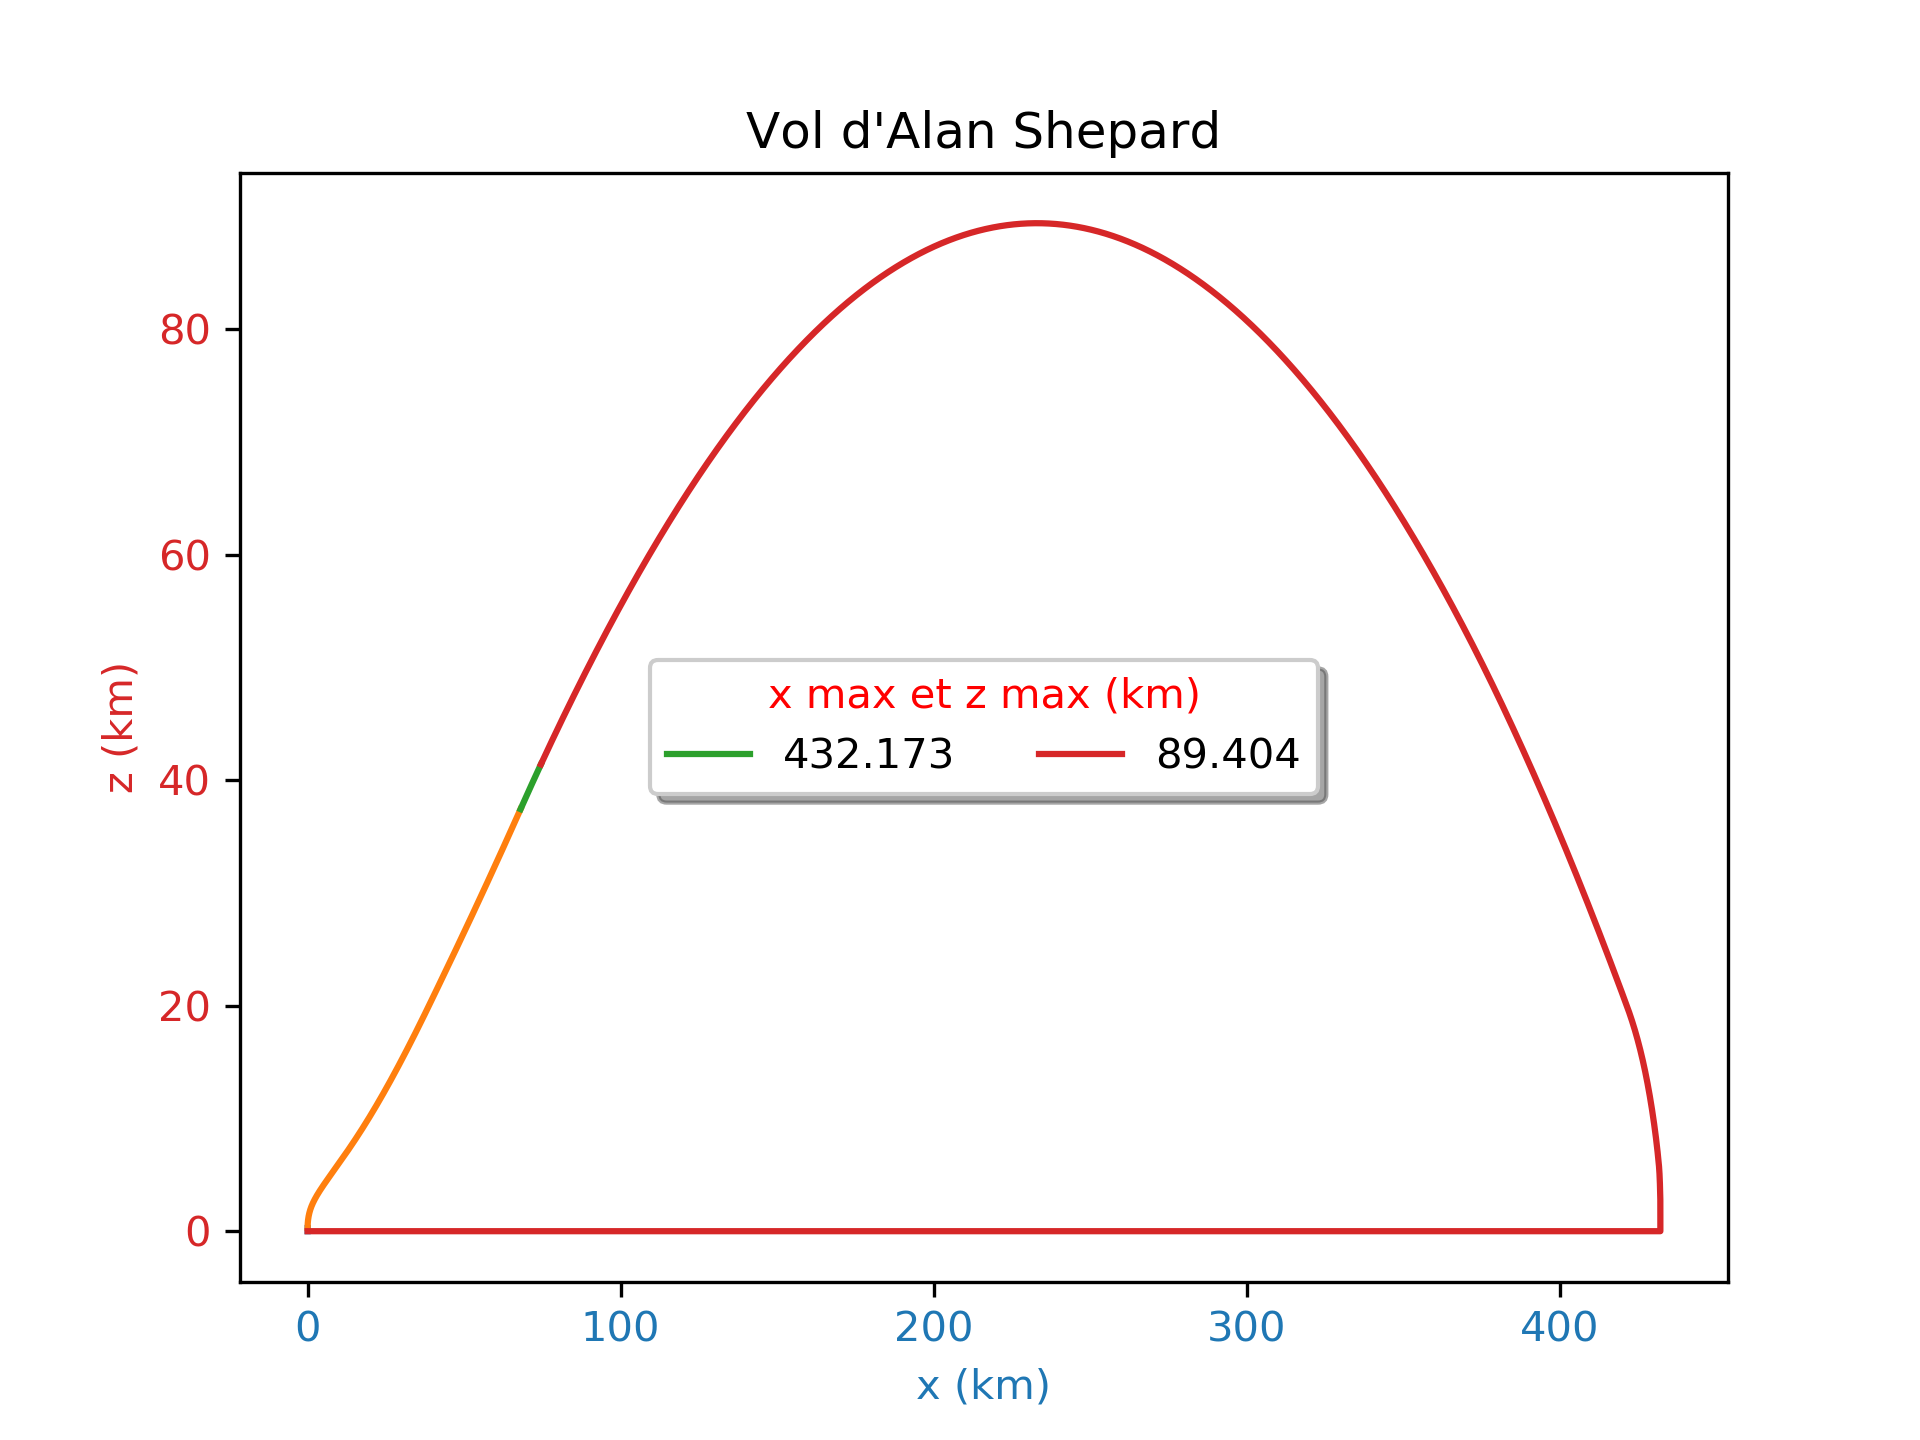
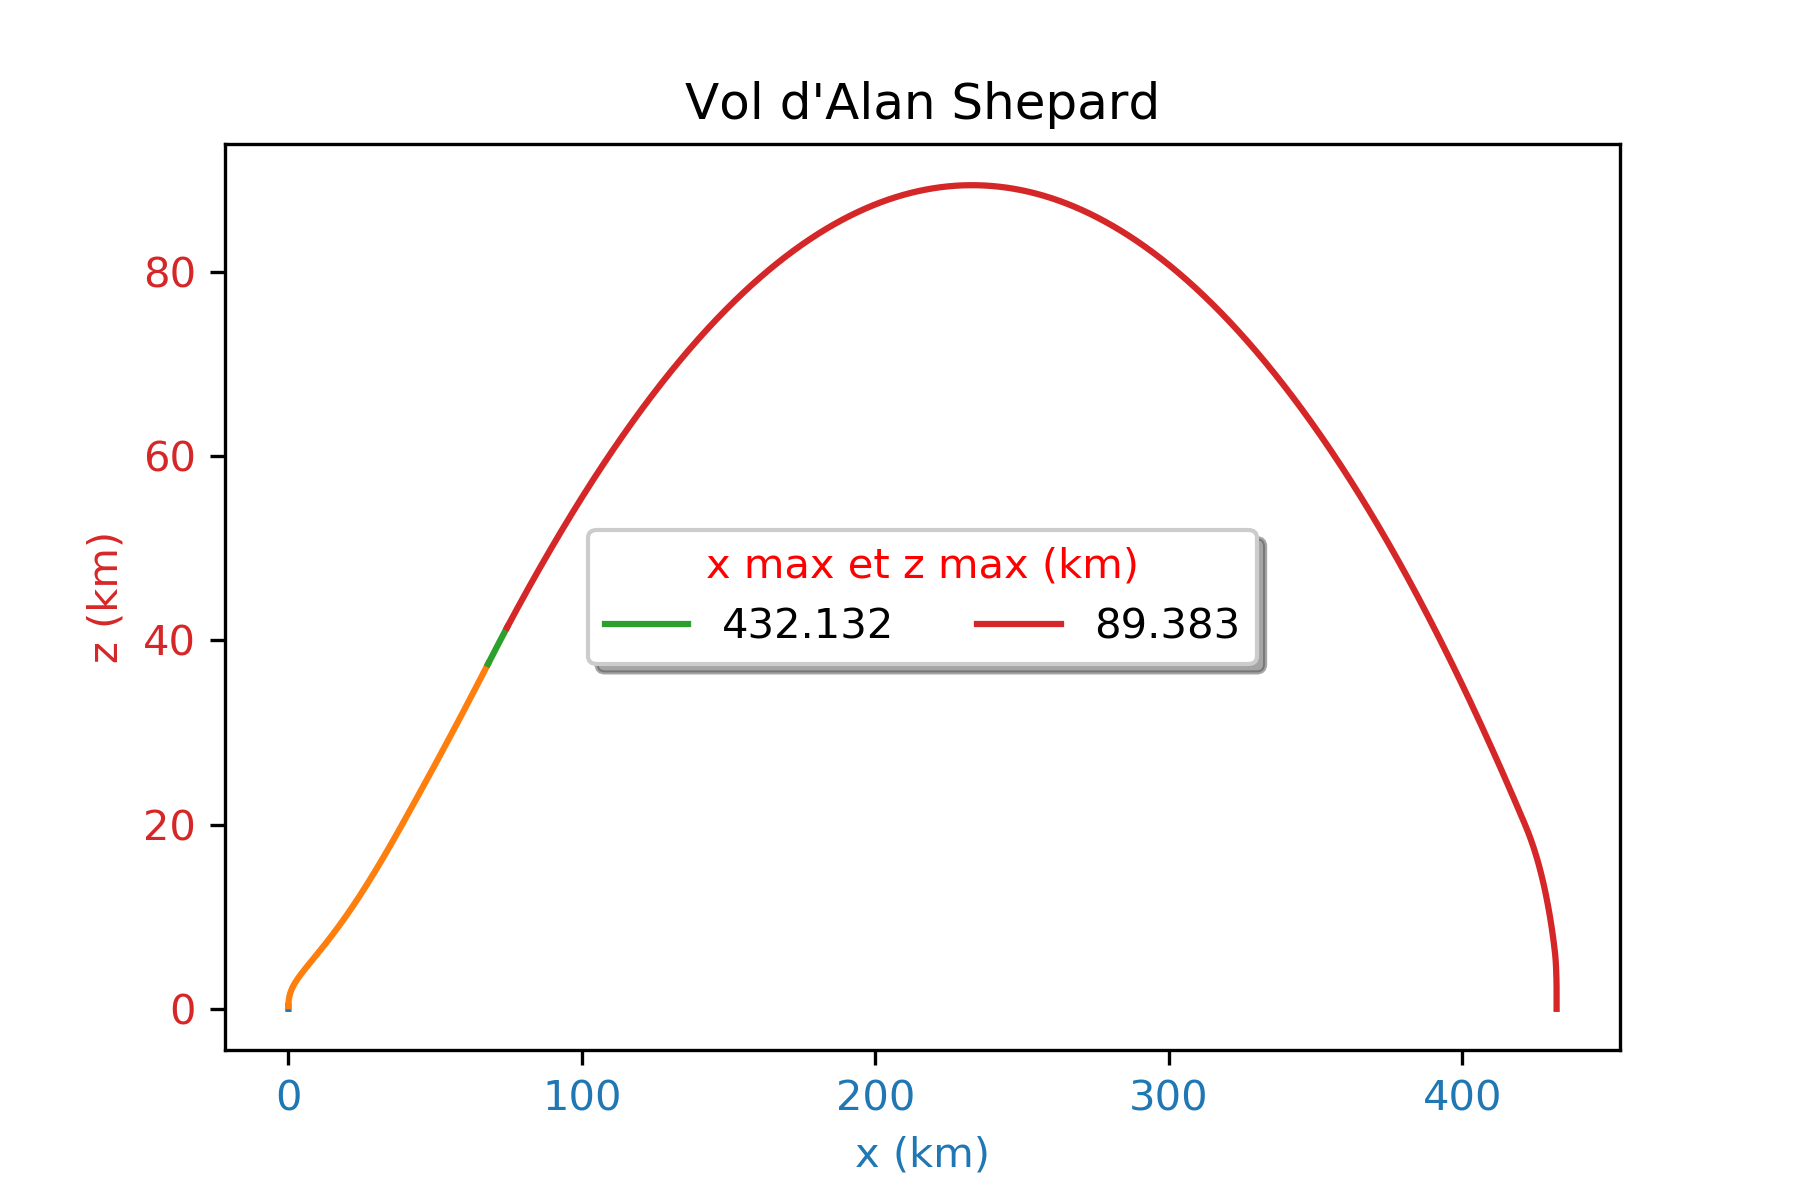
les vecteurs sont calcé sur le temps et non plus N, toujours pas reglé le problème d'altitude.

diff --git a/vol.py b/vol.py
@@ -4,27 +4,29 @@ import matplotlib.pyplot as plt
 
 ################ Définition des fonctions
 
-def vol(theta,tsim,m=30e3,g=9.81,x0=0,z0=0,vx0=0,vz0=0,ax0=0,az0=0,Cx=0.5,S=np.pi*(0.8)**2,q=166,ve=2.11e3,mcap=1400,poussee=0,thetaF=0):
+def vol(N,theta,tsim,m=30e3,g=9.81,x0=0,z0=0,vx0=0,vz0=0,ax0=0,az0=0,Cx=0.5,S=np.pi*(0.8)**2,q=166,ve=2.11e3,mcap=1400,poussee=0,thetaF=0):
     ##Initialisation de tous les vecteurs.
-    x, z = np.zeros(N),np.zeros(N)
+    t = int(tsim*N)
+    x, z = np.zeros(t),np.zeros(t)
     x[0], z[0] = x0, z0
-    vx,vz = np.zeros(N),np.zeros(N)
+    vx,vz = np.zeros(t),np.zeros(t)
     vx[0],vz[0] = vx0, vz0
-    dt = tsim/N
-    ax,az = np.zeros(N),np.zeros(N)
+    dt = tsim/t
+    ax,az = np.zeros(t),np.zeros(t)
     ax[0],az[0] = ax0,az0
-    Ttab,rhotab = np.zeros(N),np.zeros(N)
+    Ttab,rhotab = np.zeros(t),np.zeros(t)
     Ttab[0],rhotab[0] = atmosphere(z0)
     thetaI=theta
     Cpara,Spara = 1.75,0    ##Coefficient de frottement et surface des parachutes, nulle au départ car pas déployé.
     prop = q*ve*poussee              ##Force de poussée de la fusée
-
-    for i in range(N-1):
+    
+    for i in range(t-1):
         T, rho = atmosphere(z[i])  ##Calcul de la densité de l'air et de la température en fontion de l'altitude.
         if vz[i] < 0:
             Cx = coeff(vz[i],T)    ##Calcul du coeff Cx lors de la redescente
             Spara = para(z[i])             ##et de Spara à partir d'une certaine altitude.
         if z[i] < 0:
+            x,z,m,vx,vz,ax,az,Ttab,rhotab = x[:i],z[:i],m,vx[:i],vz[:i],ax[:i],az[:i],Ttab[:i],rhotab[:i]
             break
         Ttab[i+1] = T
         rhotab[i+1] = rho
@@ -108,14 +110,14 @@ theta2 = np.pi/4
 tsim1 = 16
 tsim2 = 127.5
 tsim3 = 700
-N = 10000
+N = 100
 
 ############## Calcul des trajectoires
 
-x1,z1,m1,vx1,vz1,ax1,az1,Ttab1,rhotab1 = vol(theta1,tsim1,poussee=1) ##La fusée décolle verticalement
-x2,z2,m2,vx2,vz2,ax2,az2,Ttab2,rhotab2 = vol(theta1,tsim2,x0=x1[-1],z0=z1[-1],m=m1,poussee=1,vx0=vx1[-1],vz0=vz1[-1],ax0=ax1[-1],az0=az1[-1],thetaF=theta2)   ##Puis prend progressivement un angle de 45 ◦ par rapport à l’horizontale ≈ 16 s après le lancement.
-x3,z3,m3,vx3,vz3,ax3,az3,Ttab3,rhotab3 = vol(0,4,x0=x2[-1],z0=z2[-1],m=m2-580,vx0=vx2[-1],vz0=vz2[-1],ax0=ax2[-1],az0=az2[-1])    ##Largage de la tour d’éjection d’urgence à la fin de la poussée de la fusée
-x4,z4,m4,vx4,vz4,az4,az4,Ttab4,rhotab4 = vol(0,tsim3,x0=x3[-1],z0=z3[-1],m=1400,vx0=vx3[-1],vz0=vz3[-1],ax0=ax3[-1],az0=az3[-1])    ##Séparation de la capsule Mercury 4 secondes après la fin de la poussée
+x1,z1,m1,vx1,vz1,ax1,az1,Ttab1,rhotab1 = vol(N,theta1,tsim1,poussee=1) ##La fusée décolle verticalement
+x2,z2,m2,vx2,vz2,ax2,az2,Ttab2,rhotab2 = vol(N,theta1,tsim2,x0=x1[-1],z0=z1[-1],m=m1,poussee=1,vx0=vx1[-1],vz0=vz1[-1],ax0=ax1[-1],az0=az1[-1],thetaF=theta2)   ##Puis prend progressivement un angle de 45 ◦ par rapport à l’horizontale ≈ 16 s après le lancement.
+x3,z3,m3,vx3,vz3,ax3,az3,Ttab3,rhotab3 = vol(N,0,4,x0=x2[-1],z0=z2[-1],m=m2-580,vx0=vx2[-1],vz0=vz2[-1],ax0=ax2[-1],az0=az2[-1])    ##Largage de la tour d’éjection d’urgence à la fin de la poussée de la fusée
+x4,z4,m4,vx4,vz4,az4,az4,Ttab4,rhotab4 = vol(N,0,tsim3,x0=x3[-1],z0=z3[-1],m=1400,vx0=vx3[-1],vz0=vz3[-1],ax0=ax3[-1],az0=az3[-1])    ##Séparation de la capsule Mercury 4 secondes après la fin de la poussée
 
 ############## Tracé des graphiques
 
@@ -139,7 +141,7 @@ leg.get_title().set_color("red")
 plt.savefig('Vol d\'Alan Shepard.png',dpi=300)
 
 plt.show()
-
+'''
 fig, ax1 = plt.subplots()
 
 color = 'tab:red'
@@ -158,3 +160,4 @@ ax2.tick_params(axis='y', labelcolor=color)
 fig.tight_layout()
 plt.savefig('Accélération et postion au cours du temps',dpi=300)
 plt.show()
+'''
